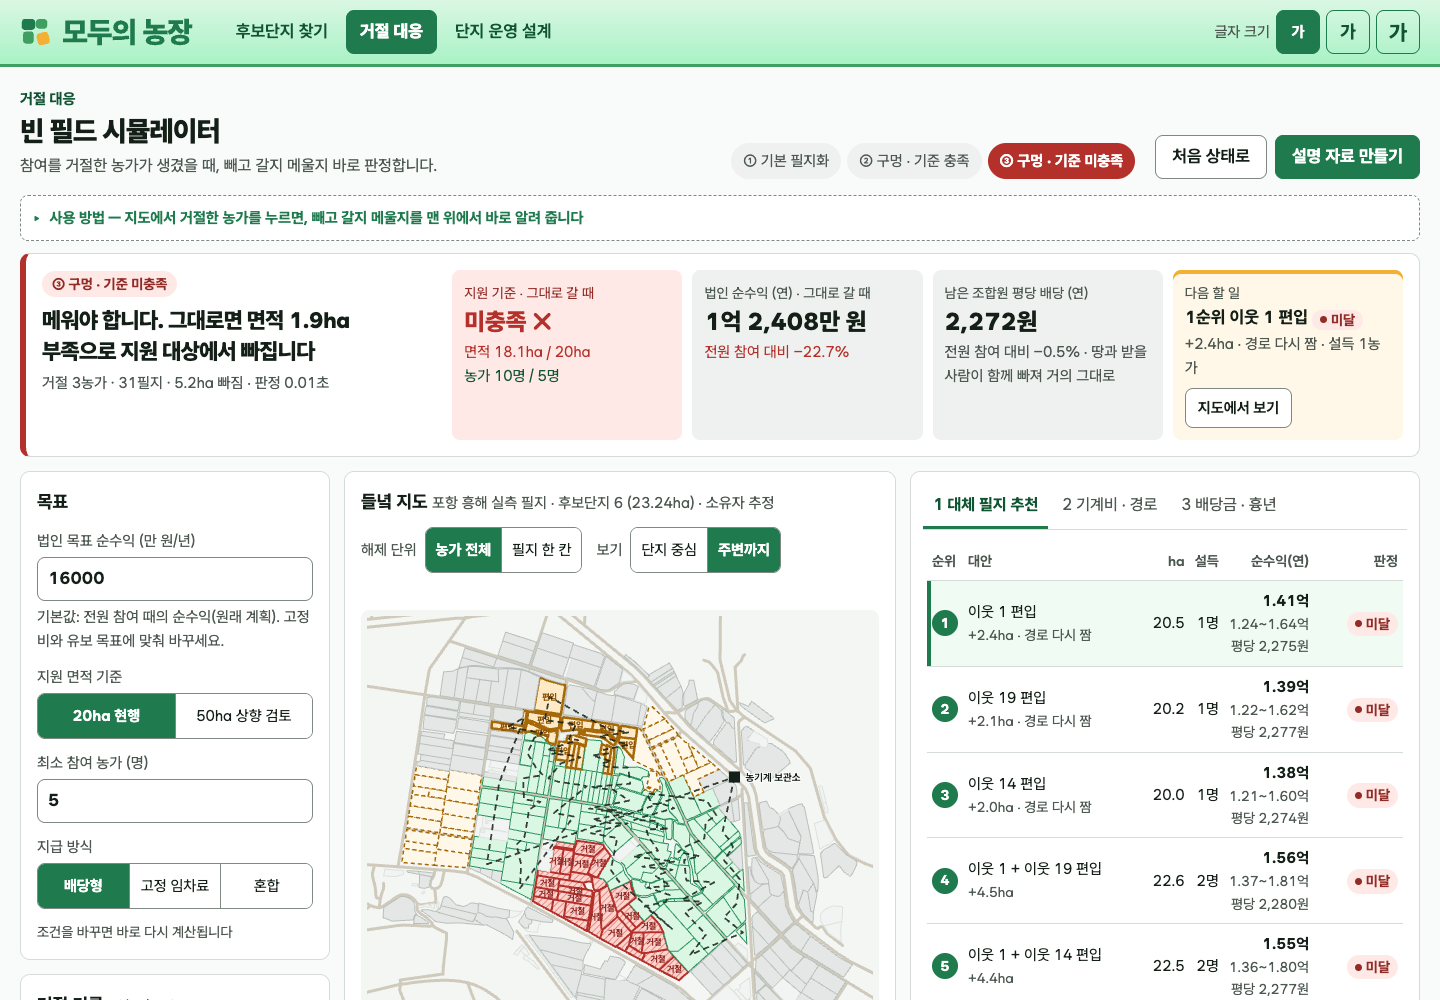
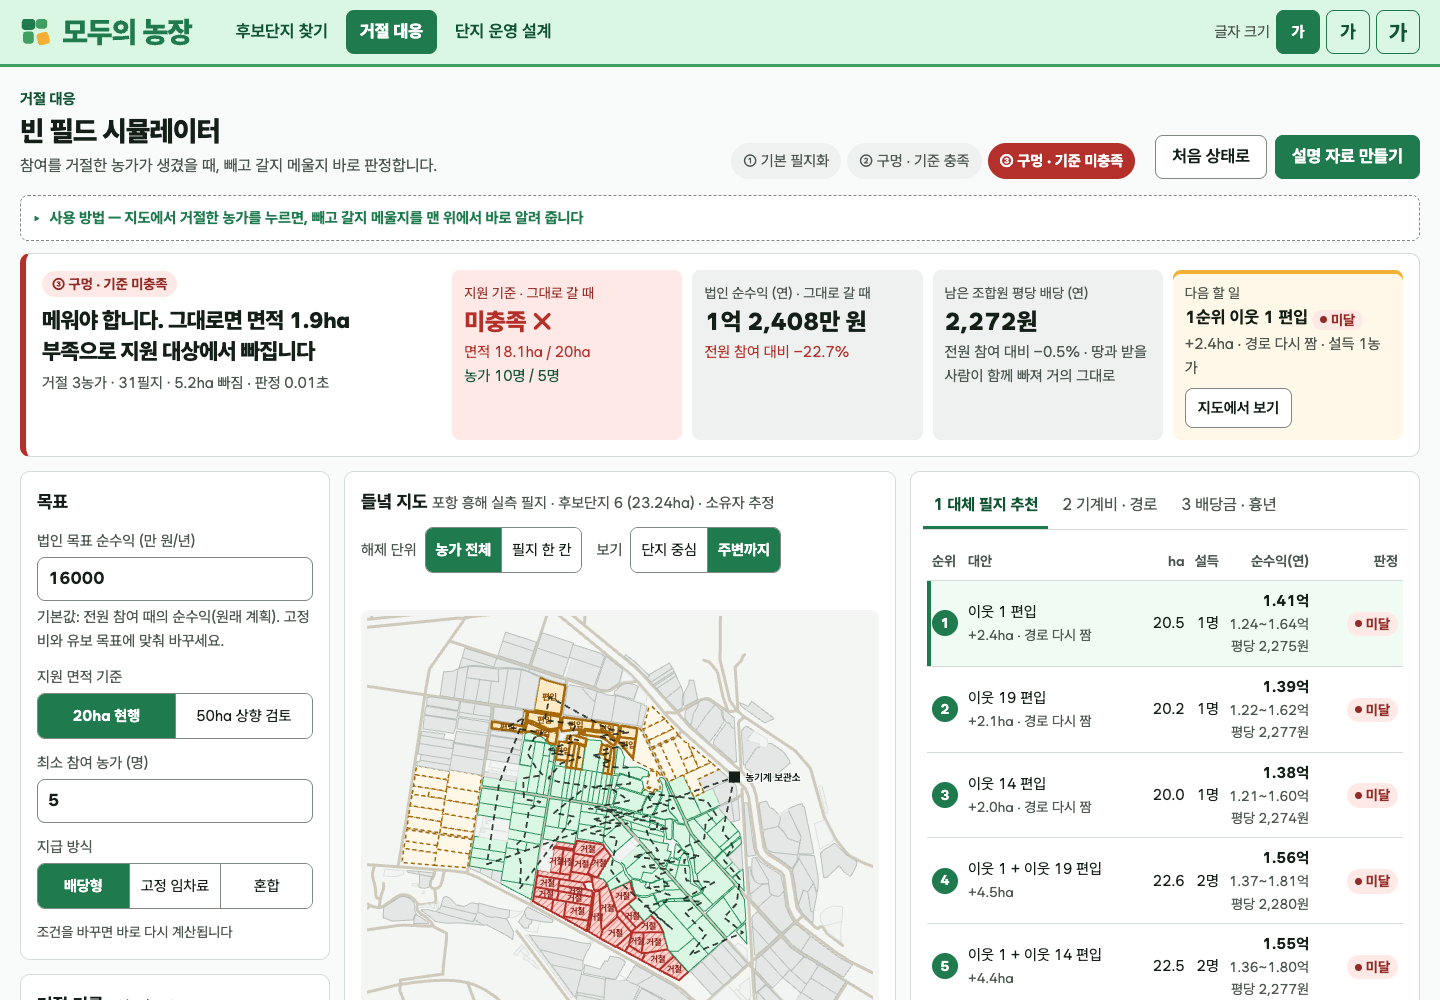
머리글 띠를 단색으로 고른 근거 기록, 화면 이미지 갱신

Changed region(s): [[0.0, 0.031, 1.0, 0.062]]

diff --git a/docs/target-research.md b/docs/target-research.md
@@ -76,7 +76,7 @@
 
 | 바꾼 것 | 근거 |
 |---|---|
-| 공통 머리글: 연한 초록 그라데이션 띠(위 #DAF7E4 → 아래 #A9F2C5) + 컬러 로고(모두의 농장) + 진한 초록 글자(6.9:1). 흰 글자는 #2A834A보다 밝은 바탕에서 4.5:1 아래로 떨어져 연한 띠에서는 쓰지 않는다 · 메뉴 3개(후보단지 찾기 · 거절 대응 · 단지 운영 설계) · 글자 크기 3단계. 지금 화면은 흰 알약(휴대폰은 바탕색 탭)으로 표시 | 브랜드 가이드의 밝은 바탕 컬러 로고 조합(PAPER · FULL COLOUR), KRDS 글자 크기 설정. 더 연한 green-50 → 100도 비교했으나 거의 흰색으로 보여 green-100 → 200을 골랐다. 띠와 페이지 바탕 차이가 작아 아래에 새순 연두 경계선을 둔다. 어두운 화면에서는 깊은 초록 띠 + 흰 로고 |
+| 공통 머리글: 연한 초록 단색 띠(#DAF7E4) + 컬러 로고(모두의 농장) + 진한 초록 글자(7.9:1). 흰 글자는 #2A834A보다 밝은 바탕에서 4.5:1 아래로 떨어져 연한 띠에서는 쓰지 않는다 · 메뉴 3개(후보단지 찾기 · 거절 대응 · 단지 운영 설계) · 글자 크기 3단계. 지금 화면은 흰 알약(휴대폰은 바탕색 탭)으로 표시 | 브랜드 가이드의 밝은 바탕 컬러 로고 조합(PAPER · FULL COLOUR), KRDS 글자 크기 설정. 그라데이션(green-100 → 200)과 단색 green-200도 비교했으나, 브랜드의 평면 초록에 맞추고 화면에서 튀지 않는 단색 green-100을 골랐다. 띠와 페이지 바탕 차이가 작아 아래에 새순 연두 경계선을 둔다. 어두운 화면에서는 깊은 초록 띠 + 흰 로고 |
 | 메뉴는 일 순서대로, 사무장이 쓰는 말로 ("빈 필드" 대신 "거절 대응") | 단지를 정하고 → 설득하다 거절을 맞고 → 운영을 짠다 |
 | 화면 제목 줄: 메뉴 이름(작게) · 제품 이름 · 한 줄 설명 | 지금 어느 화면인지 메뉴와 같은 말로 다시 알려 준다 |
 | 공통 바닥글: 흰 로고, 세 화면 바로가기, 근거 데이터, "추정치이며 약속된 금액이 아님" | 배당 신뢰 문제. 숫자의 출처를 늘 보이게 한다 |
